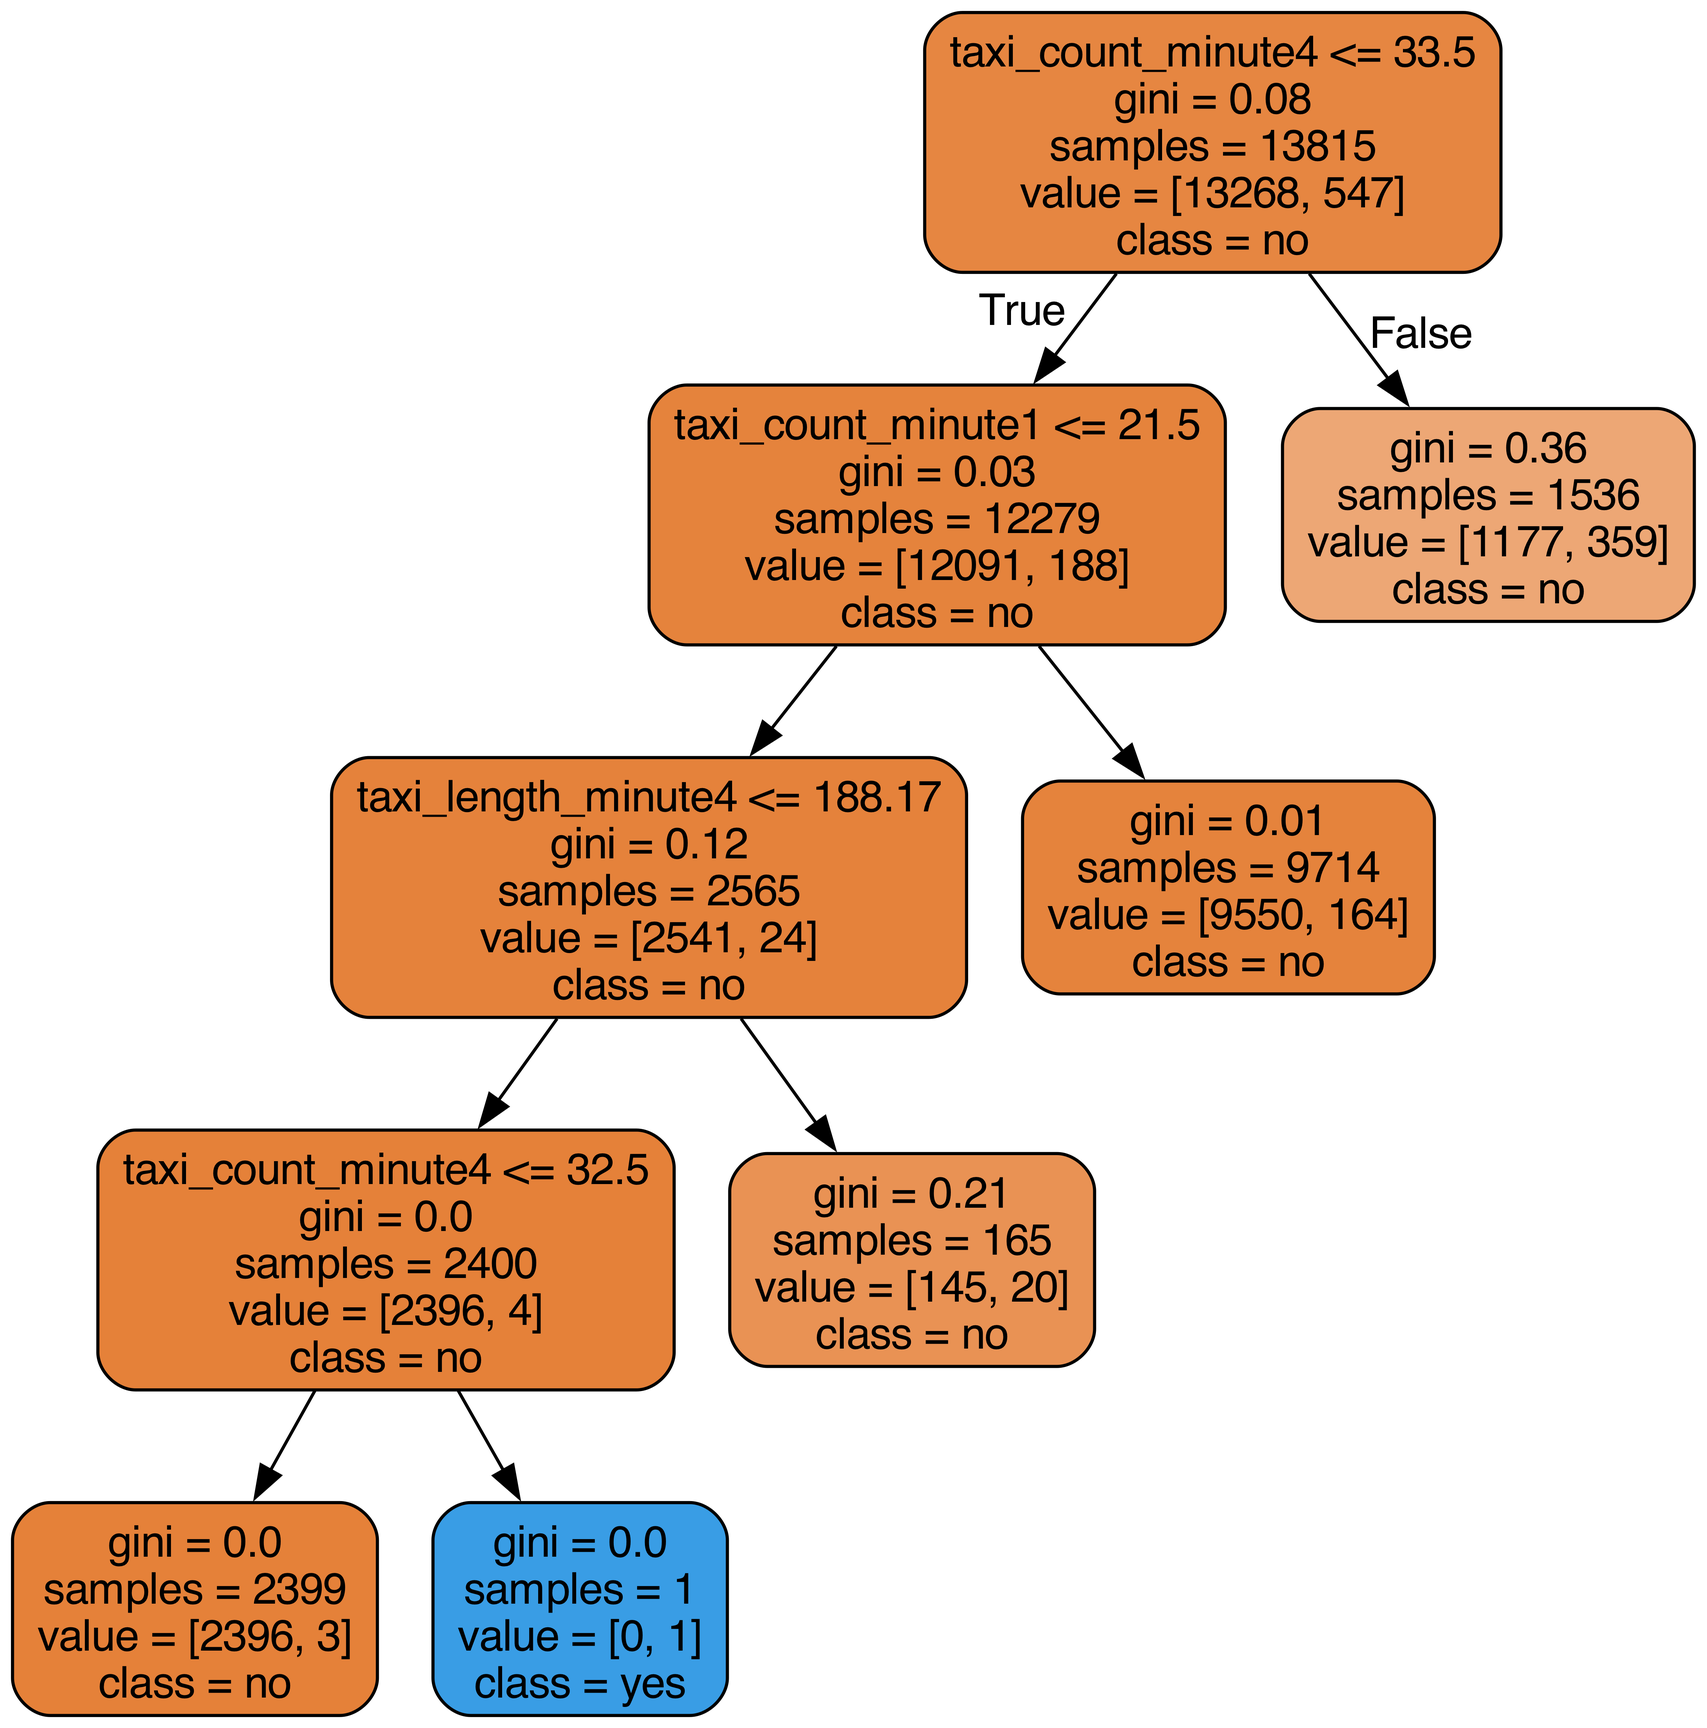
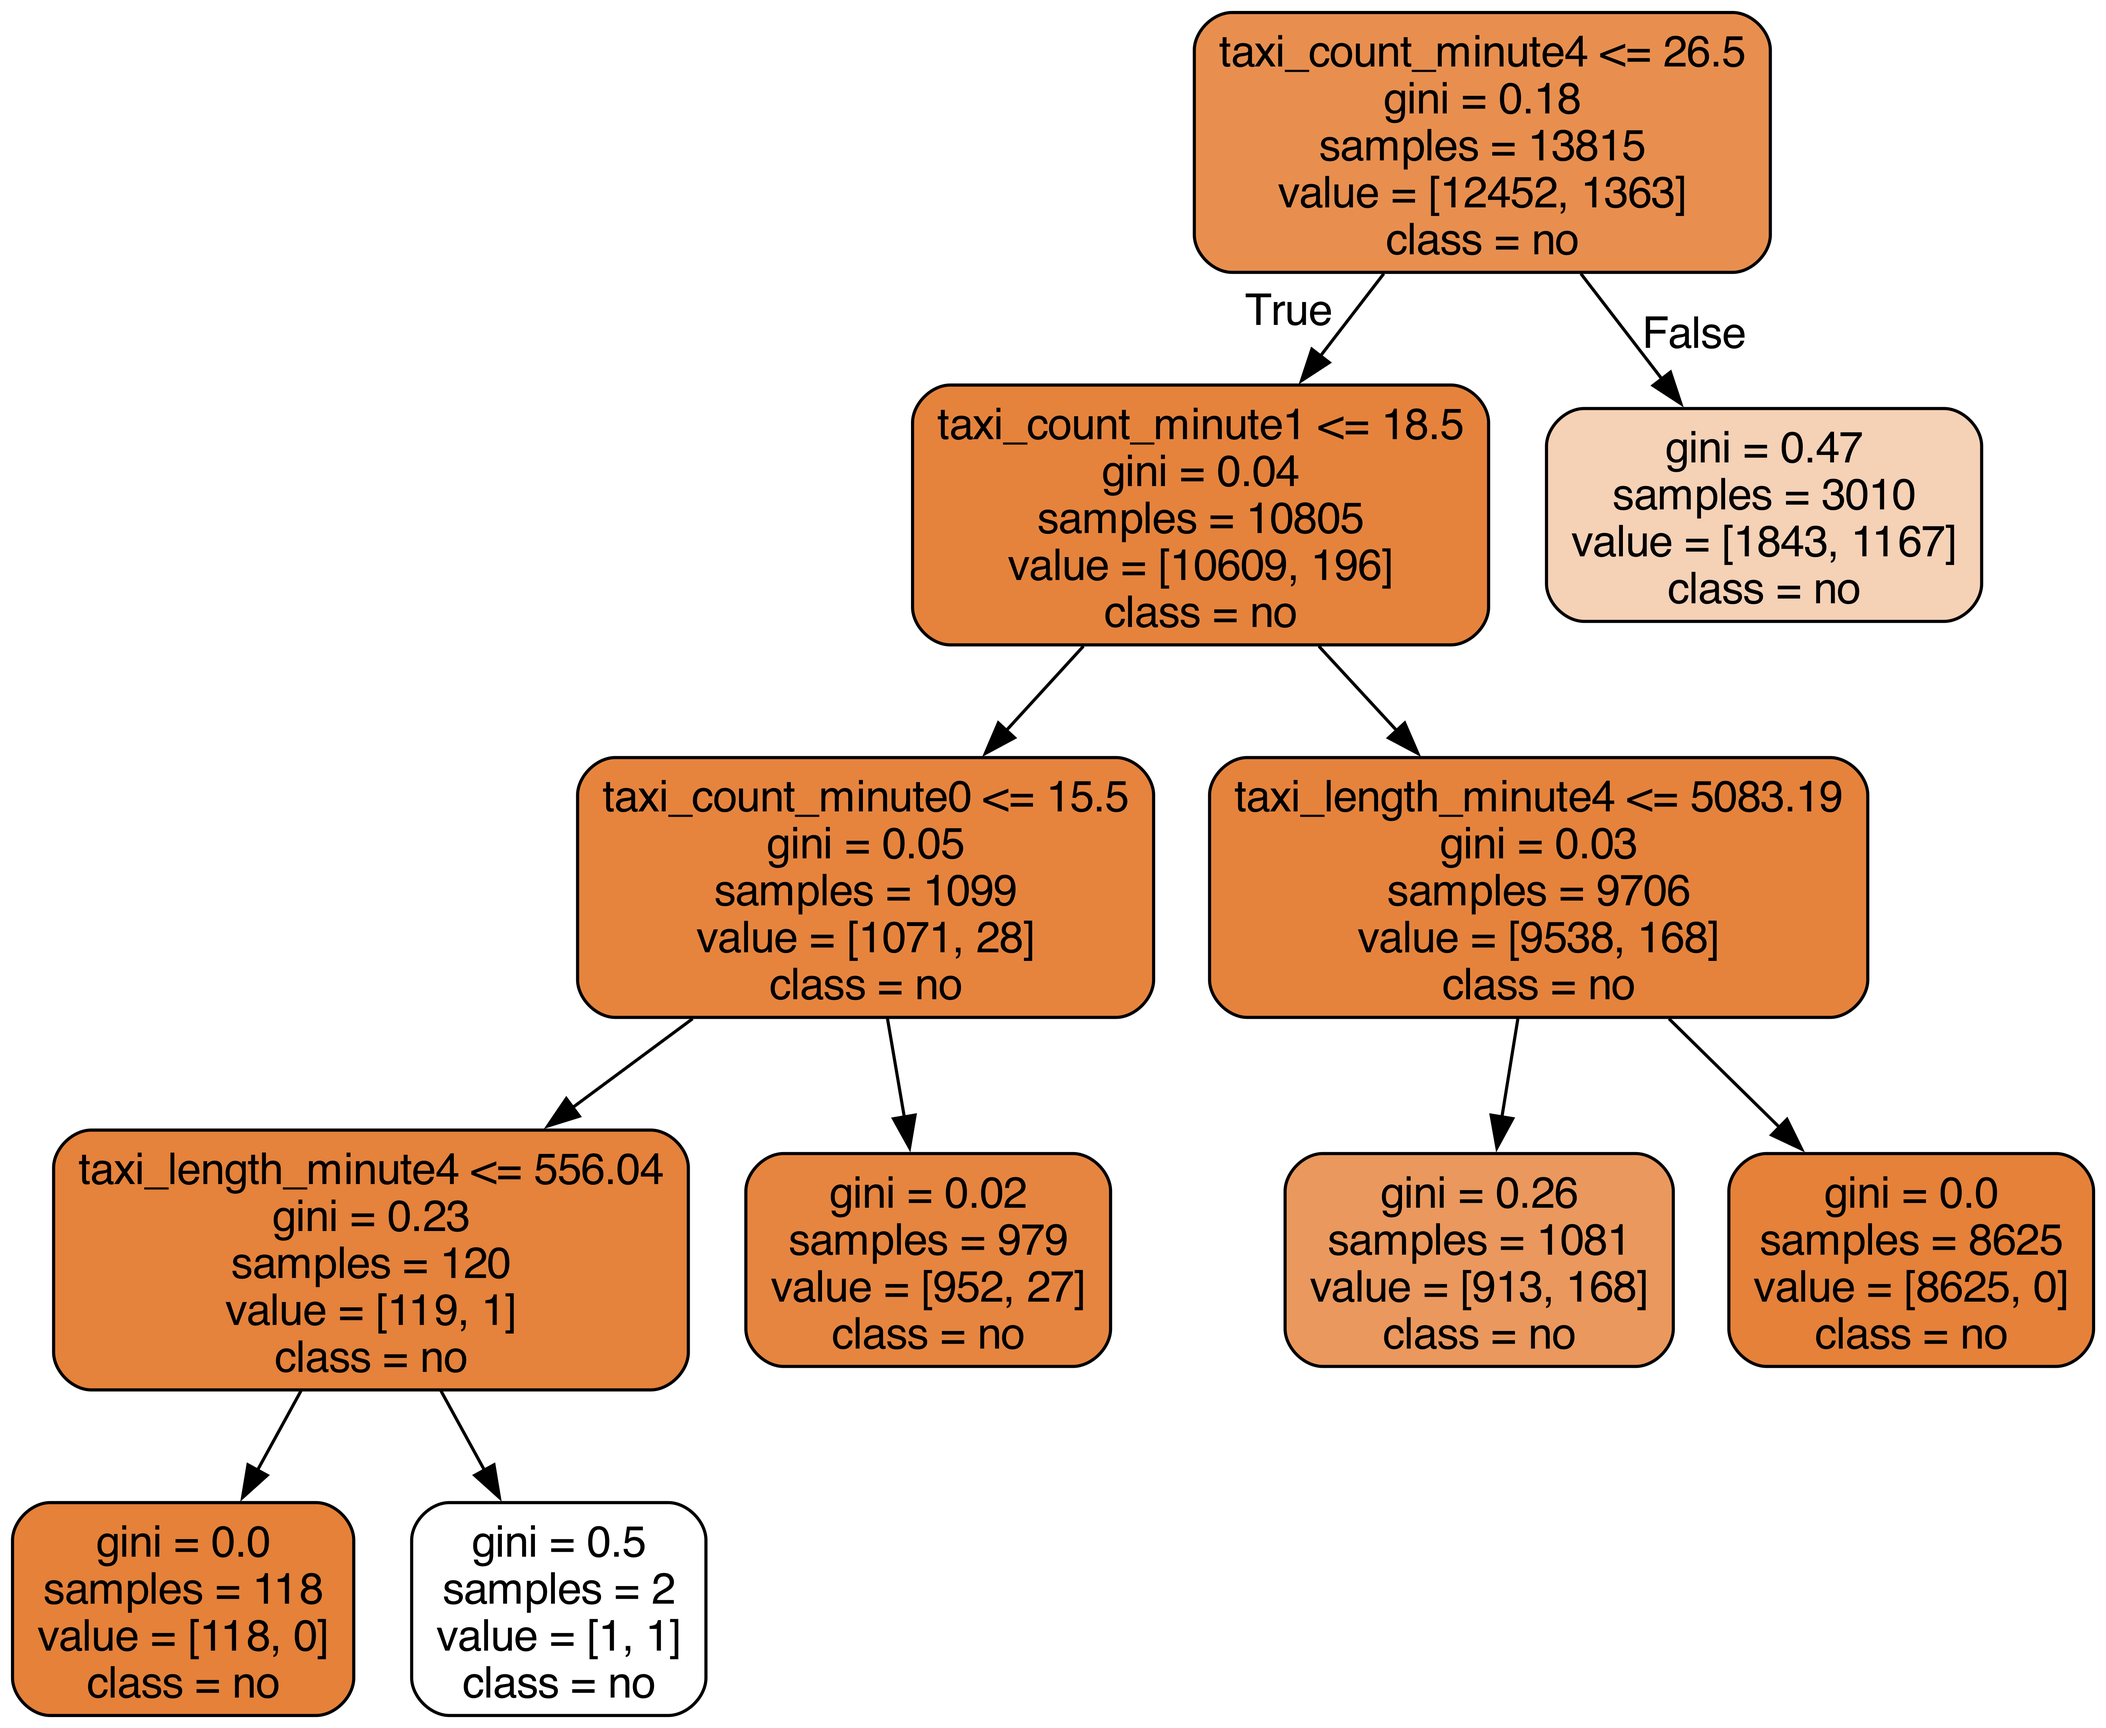
adjusting models

diff --git a/modeling.py b/modeling.py
@@ -38,7 +38,7 @@ simplefilter(action="ignore", category=pd.errors.PerformanceWarning)
 
 
 terminal = 't4'
-is_should_go = True
+is_should_go = False
 one_date = '2023-11-07'
 
 def import_and_preprocess_should_go():
@@ -70,8 +70,8 @@ def import_and_preprocess_heavy_congestion():
     data = pd.read_csv('./' + terminal + '_congestion/' + terminal + '_queue_all_days_avg_combined.csv')
     
     # Split the data into features (X) and target (y)
-    data.loc[data['sum'] >= 17, 'heavy_congestion'] = '1'
-    data.loc[data['sum'] < 17, 'heavy_congestion'] = '0'
+    data.loc[data['sum'] >= 10, 'heavy_congestion'] = '1'
+    data.loc[data['sum'] < 10, 'heavy_congestion'] = '0'
     
     X = data.drop('heavy_congestion', axis=1)
     y = data['heavy_congestion']
